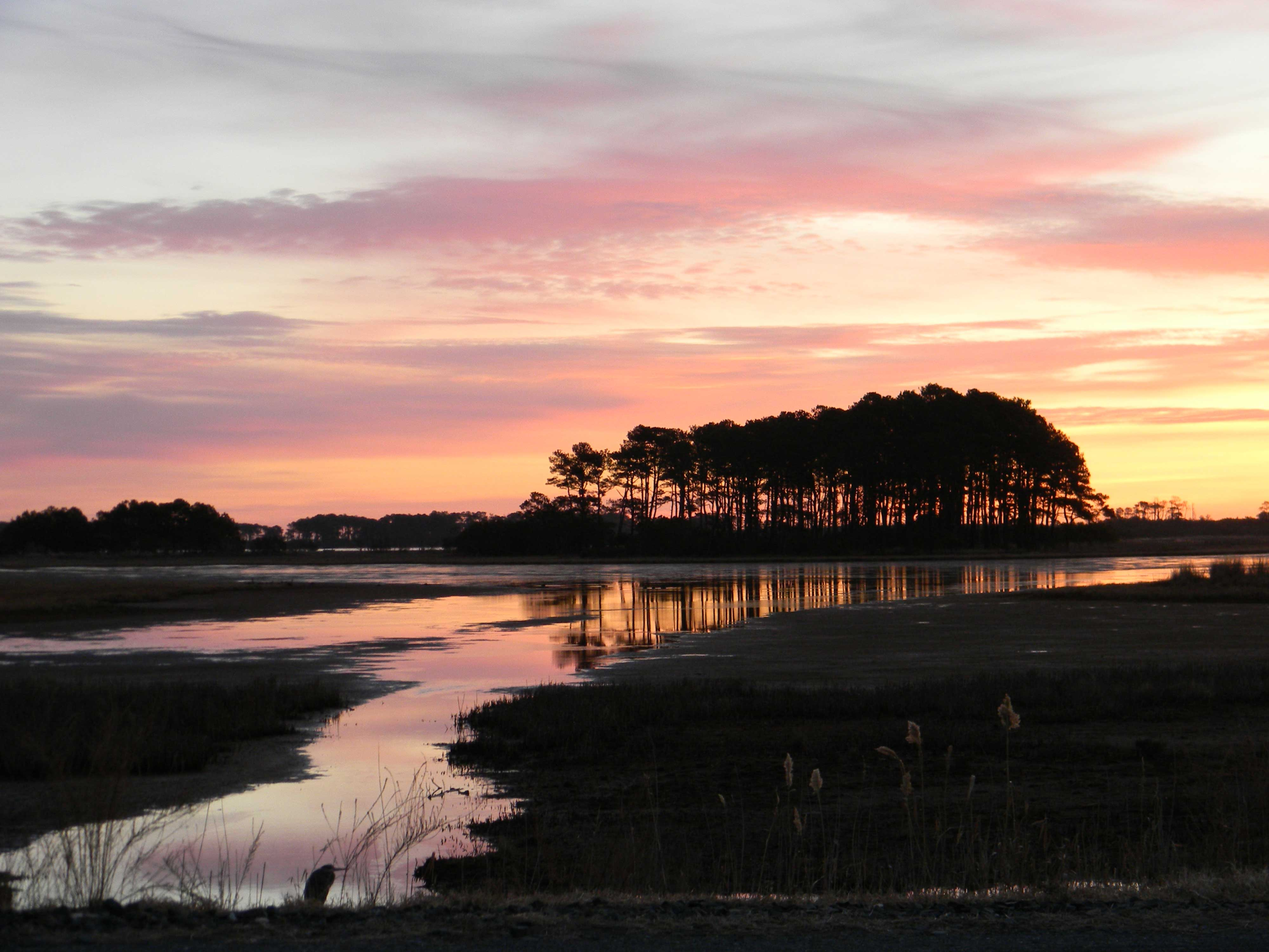
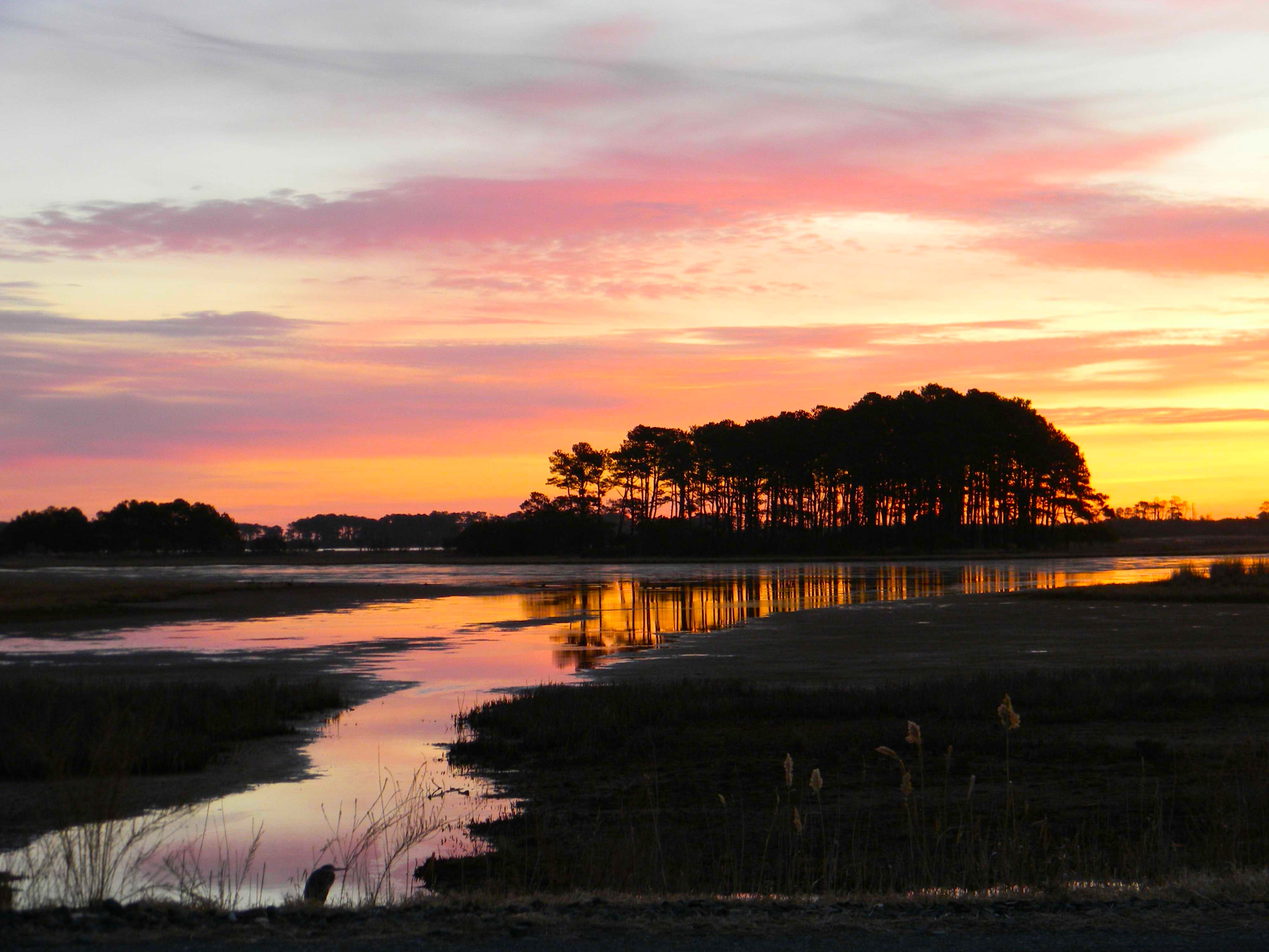
Remove resources
Added PLLC.  Removed resource links on right side of page, replaced with treatment information.  Changed background to higher saturation image.

diff --git a/index.html b/index.html
@@ -78,7 +78,7 @@
          </div>
          <div class="box two" style="background-color: rgba(100,100,100,.1);">
                          <p style="font-weight:100;font-size:20px;"> 
-                           <b>For Resources and Information:</b><br>
+                           <!-- <b>For Resources and Information:</b><br>
                            <a href="about" style="text-decoration:none"><font color="white">SSP-UNYTE/iLs<font></a><br>
                            <a href="about" style="text-decoration:none"><font color="white">Claire Marie Miller Seminars<font></a><br>
                            <a href="about" style="text-decoration:none"><font color="white">HeartMath+<font></a><br>
@@ -86,6 +86,10 @@
                            <a href="about" style="text-decoration:none"><font color="white">Tapping<font></a><br>
                            <a href="about" style="text-decoration:none"><font color="white">BioMat<font></a><br>
                            <a href="about" style="text-decoration:none"><font color="white">Encephalon, Inc. Dr Joe Dispenza<font></a><br>
+                           -->
+				   <b>Virtual and in person consulation and individual treatments</b><br><br>
+                           <b>Safe and Sound Protocol*</b> - program can be virtual or in person <br><br>
+				   <b>Payments</b> - sliding scale and treatment packages available, please <a href="contact.html"><font color="white">contact me</a>
                          </p>
          </div>
       </div>
